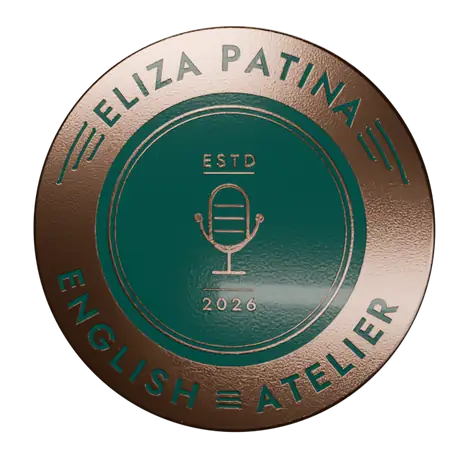
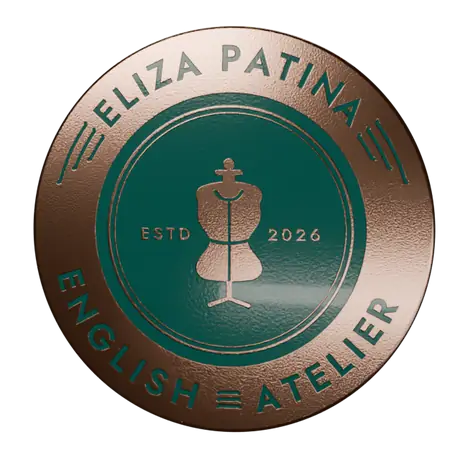
feat: エンブレムを中央のトルソーで作り直し、回り込みが見えるオープニングに
- Blender で 3D のエンブレムを再レンダリング（中央は仕立て屋のトルソー、左右に ESTD・2026）
- オープニング：先に姿を見せてから、ゆっくり斜めから正面へ回す

Claude-Session: https://claude.ai/code/session_01WAw9FbA9Try3Ma8VPoG1QR

Changed region(s): [[0.3043, 0.3348, 0.7, 0.7]]

diff --git a/src/components/Opening.tsx b/src/components/Opening.tsx
@@ -79,14 +79,16 @@ export function Opening({ onDone }: { onDone: () => void }) {
       const frame = { f: 0 }
       let shown = -1
       const tl = gsap.timeline({ defaults: { ease: 'power3.out' }, onComplete: finish })
-      tl.fromTo(els.m, { opacity: 0, y: 26, scale: 0.86 }, { opacity: 1, y: 0, scale: 1, duration: 1.5 }, 0)
+      // 先に姿を見せてから回す（回り込みが見えるように）
+      tl.fromTo(els.m, { opacity: 0 }, { opacity: 1, duration: 0.8, ease: 'power2.out' }, 0)
+        .fromTo(els.m, { y: 26, scale: 0.86 }, { y: 0, scale: 1, duration: 1.6 }, 0)
         // 3D の連番をめくって、メダルを斜めから正面へ回す（となりのコマと重ねてなめらかに）
         .to(
           frame,
           {
             f: FRAMES - 1,
-            duration: 1.8,
-            ease: 'power2.out',
+            duration: 2.0,
+            ease: 'sine.inOut',
             onUpdate: () => {
               const k = Math.min(Math.floor(frame.f), FRAMES - 1)
               if (k !== shown) {
@@ -100,7 +102,7 @@ export function Opening({ onDone }: { onDone: () => void }) {
           0,
         )
         // 緑青が左上から広がる（年月の早送り）
-        .fromTo(els.p, { '--r': '0%' }, { '--r': '160%', duration: 1.7, ease: 'power1.inOut' }, 2.0)
+        .fromTo(els.p, { '--r': '0%' }, { '--r': '160%', duration: 1.7, ease: 'power1.inOut' }, 2.1)
         // 光がひと筋、メダルの上を流れる
         .fromTo(els.s, { xPercent: -120, opacity: 0 }, { xPercent: 120, opacity: 1, duration: 1.2, ease: 'power2.inOut' }, 2.7)
         .to(els.s, { opacity: 0, duration: 0.35 }, 3.6)
